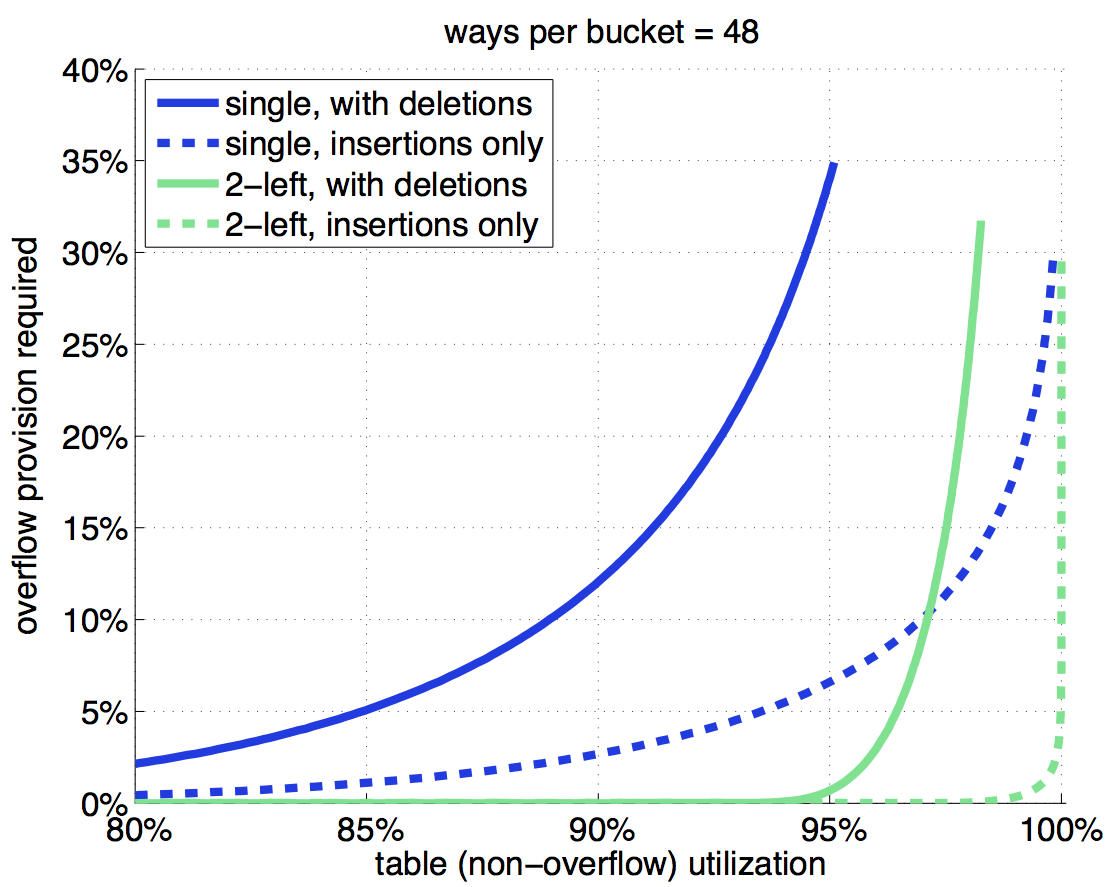
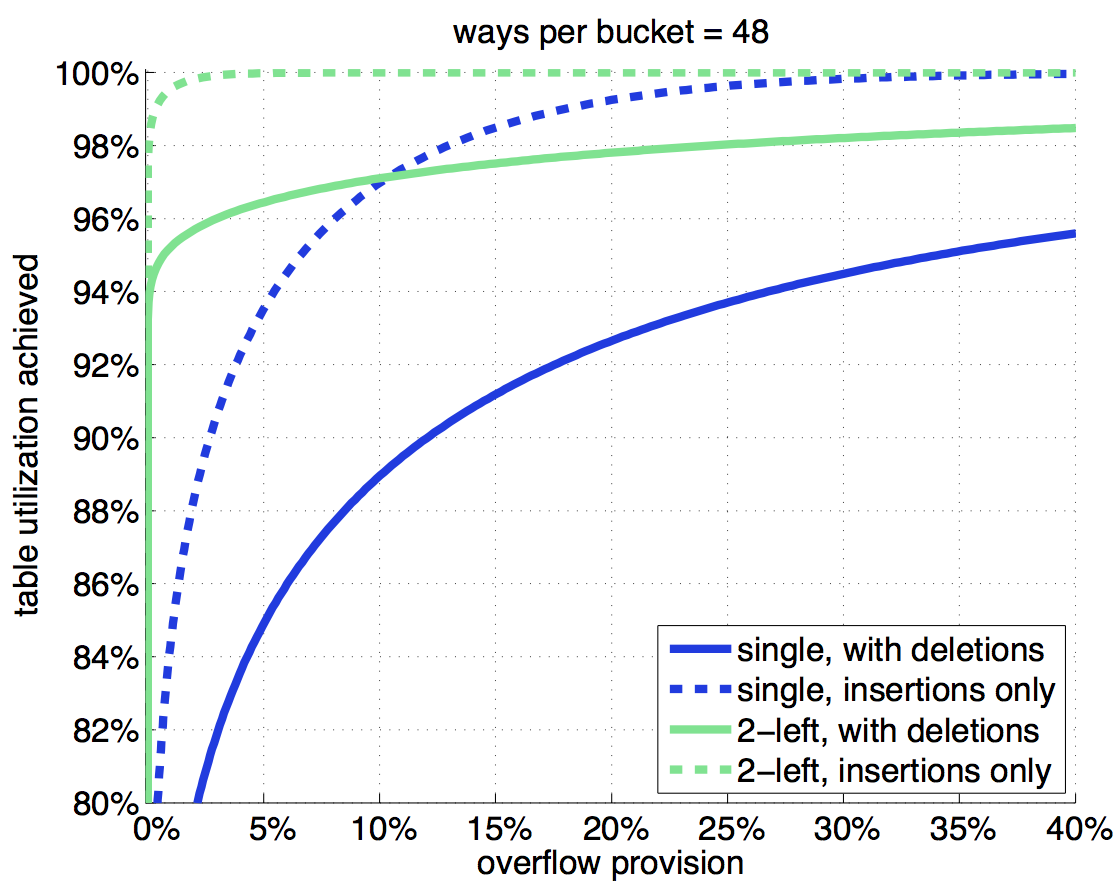
README.md: updated text for transposed plot; refreshed vsload.png

diff --git a/README.md b/README.md
@@ -90,8 +90,10 @@ These are here just to double check. These programs simulate a hash table using 
 Increasing the number of ways (or associativity) tends to reduce the number of overflows. In general, highly associative hash tables have very few overflows. The plot shows the percentage overflow, `o`, versus number of ways at 100% load, i.e. m*n elements inserted into the table, some fraction of those go to overflow.<br>
 <img src="./png/vsways.png" alt="Drawing" style="width: 600px;"/>
 
-###Overflows vs. Load:
-Increasing the load increases the overflows. The plot shows how much overflow, `o`, is required to achieve a table utilization, `t`, of a given amount. When the trend goes vertical, there is a diminishing return. With deletions, there is almost no way to completely fill the hash table: single hash can get to `t=95%` (at 35% overflow) and 2-left can get to `t=98%` (at about 10% overflow).<br>
+###Utilization Efficiency vs. Overflow Provision:
+Given some overflow provision, `o`, the following plot shows the maximum achievable table utilization, `t`. If `t` is not 100%, then there is some space remaining in the hash table when the overflow list is exhausted, i.e. the allocated resources are underutilized. On the other hand, there is (presumably) a much higher cost associated with handling overflows; in specific, it would be contradict our purpose to maintain an overflow list whose size is a large fraction of the hash table size.
+
+For insertions only, 2-left can achieve 100% efficiency with a very small overflow provision (about 2.5%). For the more realistic case including deletions, there are rapidly diminishing returns as the overflow provision is increased: (e.g.) for a single hash function, the table is just above 92% filled at 20% overflow.<br>
 <img src="./png/vsload.png" alt="Drawing" style="width: 600px;"/>
 
 
